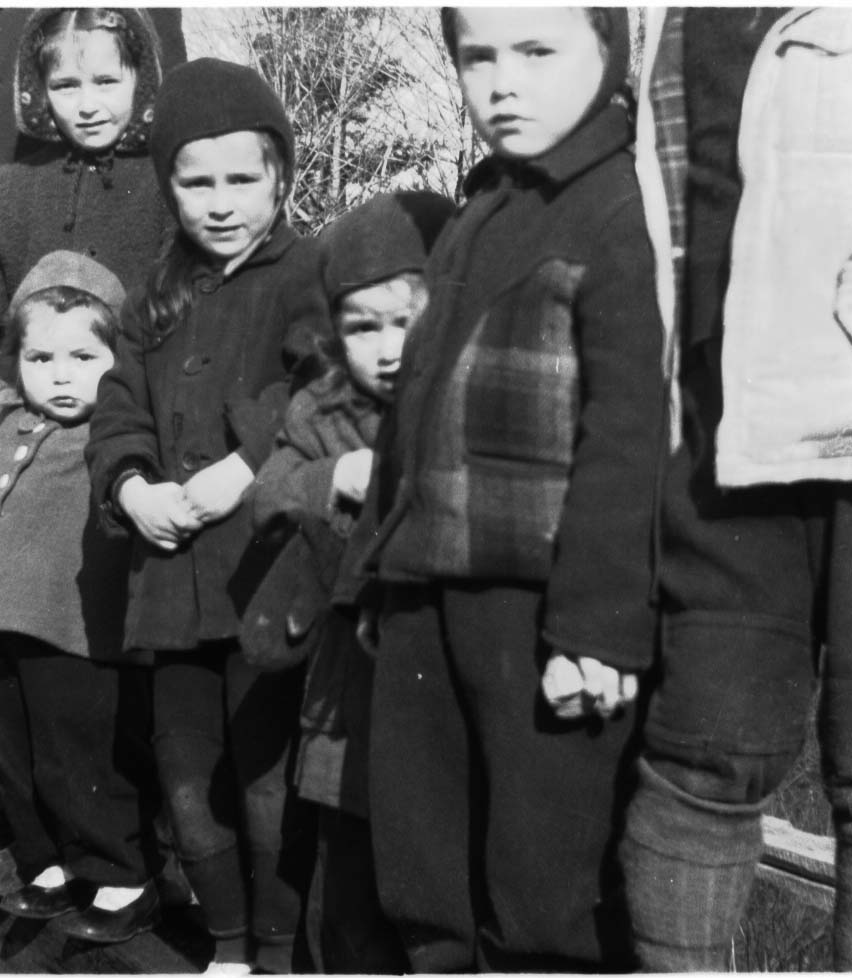
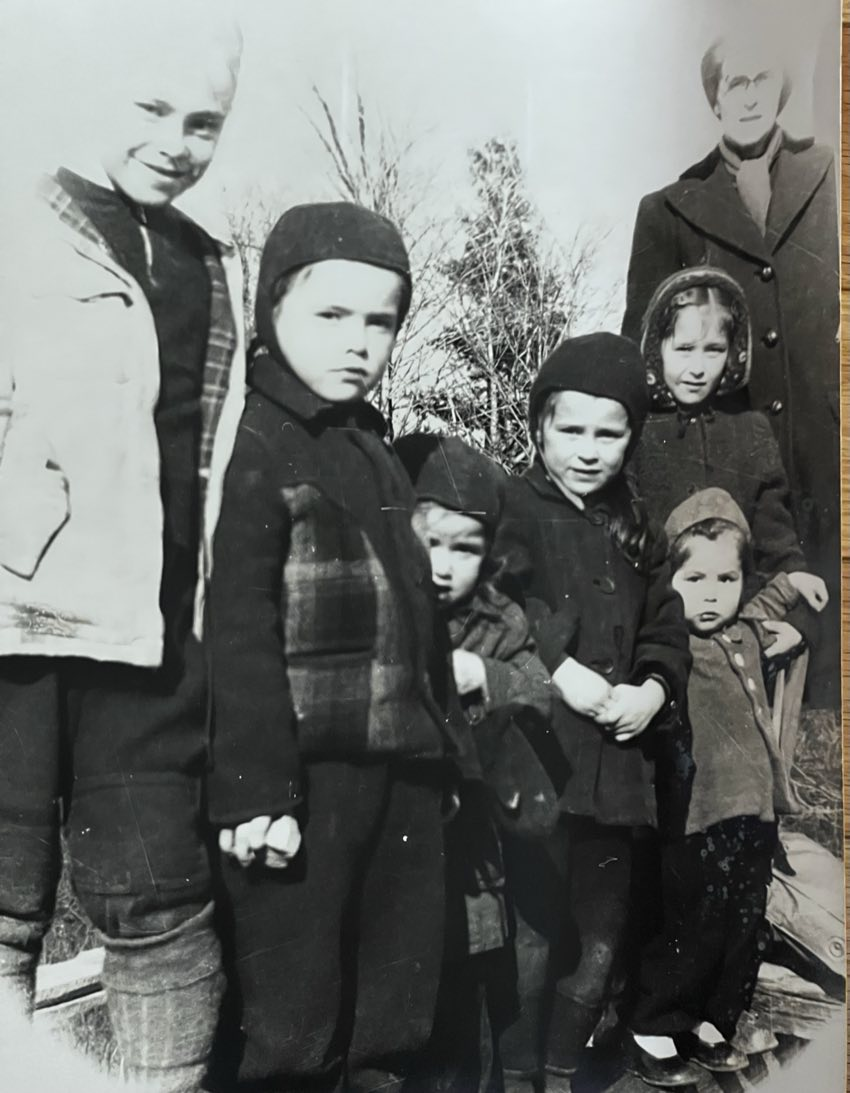
Galerie famille : version complète de « En chemin vers la cabane à sucre » (montre Yvonne et Jean-Luc)

diff --git a/galeries-contenu.js b/galeries-contenu.js
@@ -97,7 +97,7 @@ const GALERIES = [
       {
         "fichier": "Famille/FamilleEnfants2.jpg",
         "legende": "En chemin vers la cabane à sucre",
-        "description": "Ces deux photos ont été prises le même jour, au printemps — on reconnaît les enfants aux mêmes vêtements. Ce n'était pas l'hiver, mais une excursion à la cabane à sucre, à pied le long du chemin de fer qui traversait Acton Vale. Mon père avait emprunté l'appareil photo de mon oncle pour immortaliser l'événement.\n\nÀ gauche, ma sœur Ghislaine ; devant elle, moi ; ensuite Suzanne, Perle et Mariette."
+        "description": "Ces deux photos ont été prises le même jour, au printemps — on reconnaît les enfants aux mêmes vêtements. Ce n'était pas l'hiver, mais une excursion à la cabane à sucre, à pied le long du chemin de fer qui traversait Acton Vale. Mon père avait emprunté l'appareil photo de mon oncle pour immortaliser l'événement.\n\nCette version-ci montre aussi ma mère Yvonne, à l'arrière, et mon frère Jean-Luc, devant. À partir d'Yvonne : Ghislaine, moi, Suzanne, Perle et Mariette."
       },
       {
         "fichier": "Famille/RoyDesjardinsKamouraska.png",
